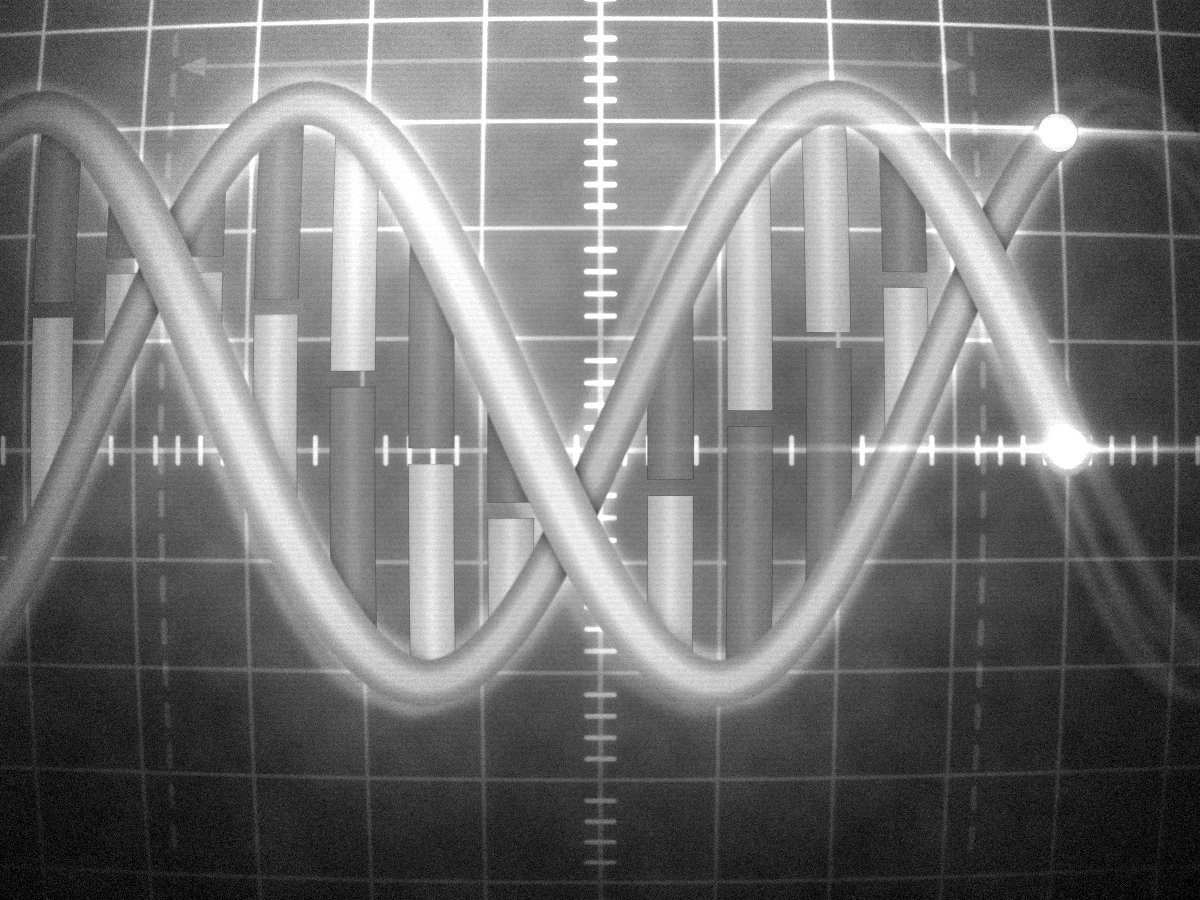
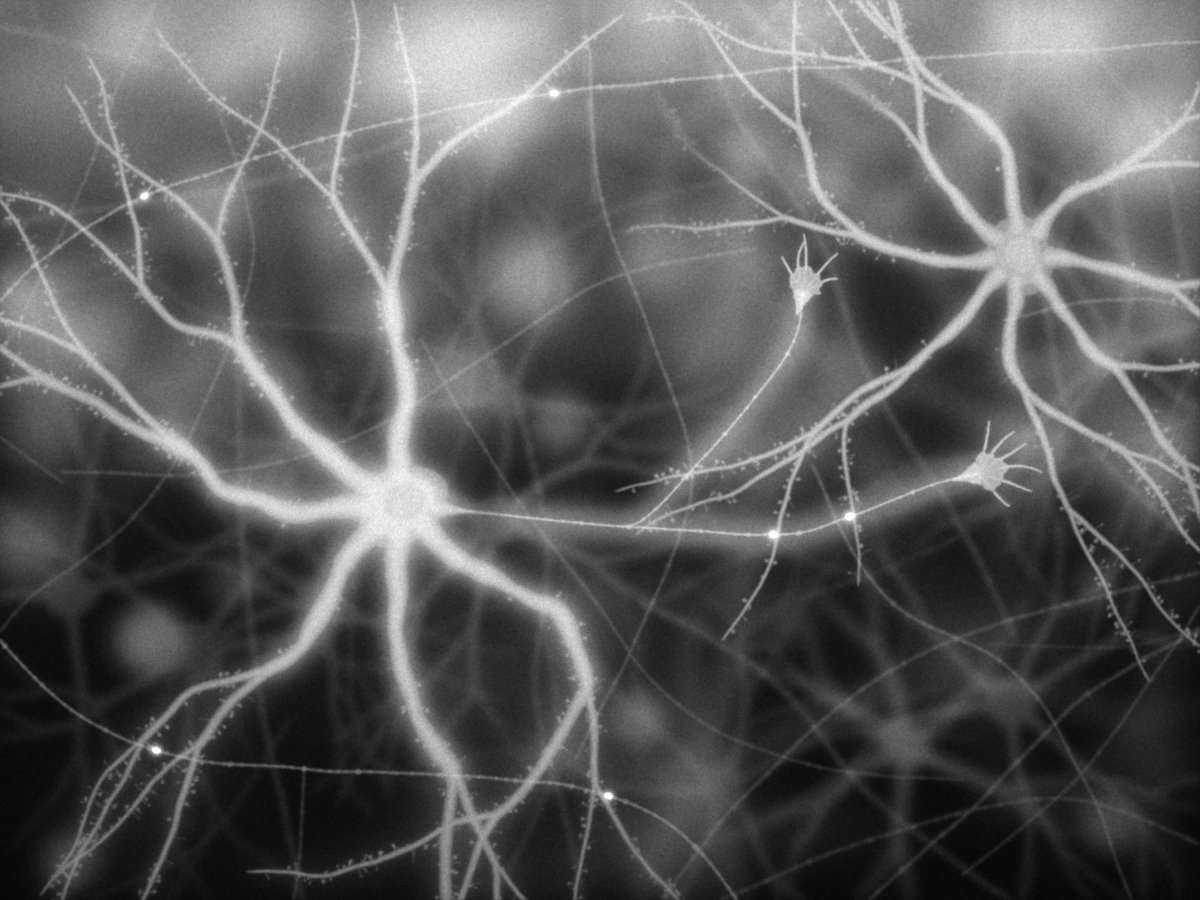
Path 2018-2020: neurons forming new connections (owner's idea)
Replaces the oscilloscope helix with a fluorescence-micrograph-style illustration made for this
site: a branching, spiny neuron whose axon reaches a second neuron, with glowing new synapses and
growth cones, i.e. a brain learning biology. Rendered as characters and revealed on hover like the
campus photos (1200x900 greyscale, 154 KB). Alt text updated.

diff --git a/index.html b/index.html
@@ -482,7 +482,7 @@
           </div>
         </li>
         <li class="path__step">
-          <figure class="ascii-photo"><img src="assets/photos/path-self-taught.jpg" width="1200" height="900" loading="lazy" alt="Illustration: an oscilloscope screen whose two glowing sine traces twist into a DNA double helix joined by base-pair rods" /></figure>
+          <figure class="ascii-photo"><img src="assets/photos/path-self-taught.jpg" width="1200" height="900" loading="lazy" alt="Illustration in the style of a fluorescence micrograph: a branching neuron sends a thin axon to a second neuron, with glowing new synapses where they touch and growth cones reaching out" /></figure>
           <div class="path__body">
             <span class="path__years">2018&ndash;2020</span>
             <p class="path__what">Self-taught transition into biology</p>
